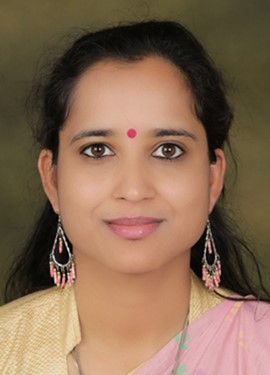
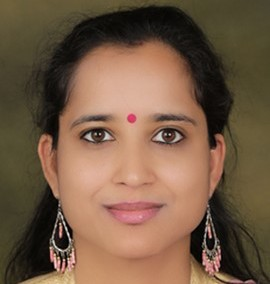
article design changes

diff --git a/layouts/PostLayout.tsx b/layouts/PostLayout.tsx
@@ -50,43 +50,59 @@ export default function PostLayout({ content, authorDetails, next, prev, childre
               <dt className="mb-2 text-right text-xs font-medium tracking-wide text-gray-500 uppercase xl:text-left dark:text-gray-400">
                 {authorDetails.length > 1 ? 'Authors' : 'Author'}
               </dt>
-              <dd className="pt-2">
-                <ul className="flex flex-wrap justify-end gap-4 sm:space-x-12 xl:block xl:space-y-8 xl:space-x-0">
+              <dd>
+                <ul className="flex flex-wrap justify-end gap-4 xl:block xl:space-y-8 xl:space-x-0">
                   {authorDetails.map((author, index) => (
-                    <li className="flex items-center space-x-2" key={author.slug ?? index}>
-                      {author.avatar && (
-                        <Image
-                          src={author.avatar}
-                          width={38}
-                          height={38}
-                          alt="avatar"
-                          className="h-10 w-10 rounded-full"
-                        />
-                      )}
-                      <dl className="text-sm leading-5 font-medium whitespace-nowrap">
-                        <dt className="sr-only">Name</dt>
-                        <dd>
+                    <li key={author.slug ?? index}>
+                      {/* Mobile: circular avatar */}
+                      <div className="flex items-center space-x-2 xl:hidden">
+                        {author.avatar && (
+                          <Image
+                            src={author.avatar}
+                            width={38}
+                            height={38}
+                            alt={author.name}
+                            className="h-10 w-10 rounded-full object-cover"
+                          />
+                        )}
+                        <Link
+                          href={`/authors/${author.slug}`}
+                          className="text-sm font-medium text-gray-900 hover:text-[#c9a84c] dark:text-gray-100 dark:hover:text-[#c9a84c]"
+                        >
+                          {author.name}
+                        </Link>
+                      </div>
+                      {/* Desktop: full card */}
+                      <div className="hidden w-5/6 overflow-hidden rounded-sm bg-[#f2ede8] xl:block dark:bg-gray-800">
+                        {author.avatar && (
+                          <div className="relative aspect-square w-full">
+                            <Image
+                              src={author.avatar}
+                              fill
+                              alt={author.name}
+                              className="object-cover object-top"
+                            />
+                          </div>
+                        )}
+                        <div className="px-4 pt-4 pb-5 text-center">
                           <Link
                             href={`/authors/${author.slug}`}
-                            className="hover:text-primary-500 dark:hover:text-primary-400 text-gray-900 dark:text-gray-100"
+                            className="text-lg font-bold text-gray-900 hover:text-[#c9a84c] dark:text-gray-100 dark:hover:text-[#c9a84c]"
                           >
                             {author.name}
                           </Link>
-                        </dd>
-                        <dt className="sr-only">Twitter</dt>
-                        <dd>
-                          {author.twitter && (
-                            <Link
-                              href={author.twitter}
-                              className="text-primary-500 hover:text-primary-600 dark:hover:text-primary-400"
-                            >
-                              {author.twitter
-                                .replace('https://twitter.com/', '@')
-                                .replace('https://x.com/', '@')}
-                            </Link>
+                          {author.occupation && (
+                            <p className="mt-1 text-base leading-snug text-gray-500 dark:text-gray-400">
+                              {author.occupation}
+                            </p>
                           )}
-                        </dd>
-                      </dl>
+                          {author.company && (
+                            <p className="text-base leading-snug text-gray-500 dark:text-gray-400">
+                              {author.company}
+                            </p>
+                          )}
+                        </div>
+                      </div>
                     </li>
                   ))}
                 </ul>

diff --git a/layouts/ListLayoutWithTags.tsx b/layouts/ListLayoutWithTags.tsx
@@ -33,32 +33,35 @@ function Pagination({ totalPages, currentPage }: PaginationProps) {
   const nextPage = currentPage + 1 <= totalPages
 
   return (
-    <div className="space-y-2 pt-6 pb-8 md:space-y-5">
-      <nav className="flex justify-between">
-        {!prevPage && (
-          <button className="cursor-auto disabled:opacity-50" disabled={!prevPage}>
-            Previous
-          </button>
-        )}
-        {prevPage && (
+    <div className="pt-8 pb-10">
+      <nav className="flex items-center justify-between">
+        {!prevPage ? (
+          <span className="cursor-not-allowed text-base font-semibold text-gray-300 dark:text-gray-600">
+            &larr; Previous
+          </span>
+        ) : (
           <Link
             href={currentPage - 1 === 1 ? `/${basePath}/` : `/${basePath}/page/${currentPage - 1}`}
             rel="prev"
+            className="text-base font-semibold text-[#1a3a5c] transition-colors hover:text-[#c9a84c] dark:text-gray-300 dark:hover:text-[#c9a84c]"
           >
-            Previous
+            &larr; Previous
           </Link>
         )}
-        <span>
+        <span className="text-base font-semibold text-[#1a3a5c] dark:text-gray-300">
           {currentPage} of {totalPages}
         </span>
-        {!nextPage && (
-          <button className="cursor-auto disabled:opacity-50" disabled={!nextPage}>
-            Next
-          </button>
-        )}
-        {nextPage && (
-          <Link href={`/${basePath}/page/${currentPage + 1}`} rel="next">
-            Next
+        {!nextPage ? (
+          <span className="cursor-not-allowed text-base font-semibold text-gray-300 dark:text-gray-600">
+            Next &rarr;
+          </span>
+        ) : (
+          <Link
+            href={`/${basePath}/page/${currentPage + 1}`}
+            rel="next"
+            className="text-base font-semibold text-[#1a3a5c] transition-colors hover:text-[#c9a84c] dark:text-gray-300 dark:hover:text-[#c9a84c]"
+          >
+            Next &rarr;
           </Link>
         )}
       </nav>
@@ -123,12 +126,15 @@ export default function ListLayoutWithTags({
               </ul>
             </div>
           </div>
-          <div>
+          <div className="mx-8 w-full">
             <ul>
               {displayPosts.map((post) => {
                 const { path, date, title, summary, tags } = post
                 return (
-                  <li key={path} className="py-6 border-b border-gray-200 dark:border-gray-700 last:border-0">
+                  <li
+                    key={path}
+                    className="border-b border-gray-200 py-6 last:border-0 dark:border-gray-700"
+                  >
                     <article className="flex flex-col space-y-2 xl:space-y-0">
                       <dl>
                         <dt className="sr-only">Published on</dt>
@@ -146,7 +152,9 @@ export default function ListLayoutWithTags({
                             </Link>
                           </h2>
                           <div className="flex flex-wrap">
-                            {tags?.map((tag) => <Tag key={tag} text={tag} />)}
+                            {tags?.map((tag) => (
+                              <Tag key={tag} text={tag} />
+                            ))}
                           </div>
                         </div>
                         <div className="prose max-w-none text-gray-500 dark:text-gray-400">

diff --git a/layouts/AuthorLayout.tsx b/layouts/AuthorLayout.tsx
@@ -19,7 +19,7 @@ export default function AuthorLayout({ children, content }: Props) {
             About
           </h1>
         </div>
-        <div className="items-start space-y-2 xl:grid xl:grid-cols-3 xl:gap-x-8 xl:space-y-0">
+        <div className="items-start space-y-2 xl:grid xl:grid-cols-3 xl:space-y-0 xl:gap-x-8">
           <div className="flex flex-col items-center space-x-2 pt-8">
             {avatar && (
               <Image
@@ -32,7 +32,7 @@ export default function AuthorLayout({ children, content }: Props) {
             )}
             <h3 className="pt-4 pb-2 text-2xl leading-8 font-bold tracking-tight">{name}</h3>
             <div className="text-gray-500 dark:text-gray-400">{occupation}</div>
-            <div className="text-gray-500 dark:text-gray-400">{company}</div>
+            {company && <div className="mt-1 text-gray-500 dark:text-gray-400">{company}</div>}
             <div className="flex space-x-3 pt-6">
               <SocialIcon kind="mail" href={`mailto:${email}`} />
               <SocialIcon kind="github" href={github} />

diff --git a/app/_experts/page.tsx b/app/_experts/page.tsx
@@ -1,5 +1,6 @@
 import { genPageMetadata } from 'app/seo'
 import expertsData from '@/data/expertsData'
+import Image from '@/components/Image'
 
 export const metadata = genPageMetadata({ title: 'Experts' })
 
@@ -24,9 +25,11 @@ export default function ExpertsPage() {
             className="overflow-hidden rounded-lg border border-gray-200 transition-shadow hover:shadow-lg dark:border-gray-700"
           >
             <div className="h-56 overflow-hidden bg-gray-100">
-              <img
+              <Image
                 src={expert.image}
                 alt={expert.name}
+                width={400}
+                height={224}
                 className="h-full w-full object-cover grayscale transition-all duration-300 hover:grayscale-0"
               />
             </div>

diff --git a/app/authors/[slug]/page.tsx b/app/authors/[slug]/page.tsx
@@ -43,13 +43,8 @@ export default async function AuthorPage({ params }: { params: Promise<{ slug: s
           <div>
             <p className="text-gold mb-1 text-sm font-semibold tracking-widest uppercase">Author</p>
             <h1 className="text-3xl font-bold md:text-4xl">{author.name}</h1>
-            {(author.occupation || author.company) && (
-              <p className="mt-2 text-gray-300">
-                {author.occupation}
-                {author.occupation && author.company && ', '}
-                {author.company}
-              </p>
-            )}
+            {author.occupation && <p className="mt-2 text-gray-300">{author.occupation}</p>}
+            {author.company && <p className="text-gray-300">{author.company}</p>}
           </div>
         </div>
       </div>

diff --git a/app/contact/page.tsx b/app/contact/page.tsx
@@ -37,7 +37,7 @@ export default function ContactPage() {
         </div>
       </div>
 
-      <div className="flex w-screen flex-col gap-6">
+      <div className="flex w-screen flex-col gap-6 px-4">
         {contactPoints.map((point) => (
           <div key={point.label} className="flex items-start gap-4">
             <div className="bg-navy flex h-10 w-10 shrink-0 items-center justify-center rounded-full">

diff --git a/docs/HOW_TO_ADD_ARTICLE.md b/docs/HOW_TO_ADD_ARTICLE.md
@@ -36,13 +36,13 @@ No coding required. Everything is done through the browser.
 
 ```
 ---
-title: 'Your Full Article Title'
-date: '2026-05-22'
-tags: ['indo-pacific', 'foreign-policy']
+title: "Your Full Article Title"
+date: "2026-05-22"
+tags: ["indo-pacific", "foreign-policy"]
 draft: false
-summary: 'One or two sentences describing the article. This appears in the article list.'
-images: ['/static/images/articles/article5.jpg']
-authors: ['author-slug-here']
+summary: "One or two sentences describing the article. This appears in the article list."
+images: ["/static/images/articles/article5.jpg"]
+authors: ["author-slug-here"]
 ---
 
 ## Summary
